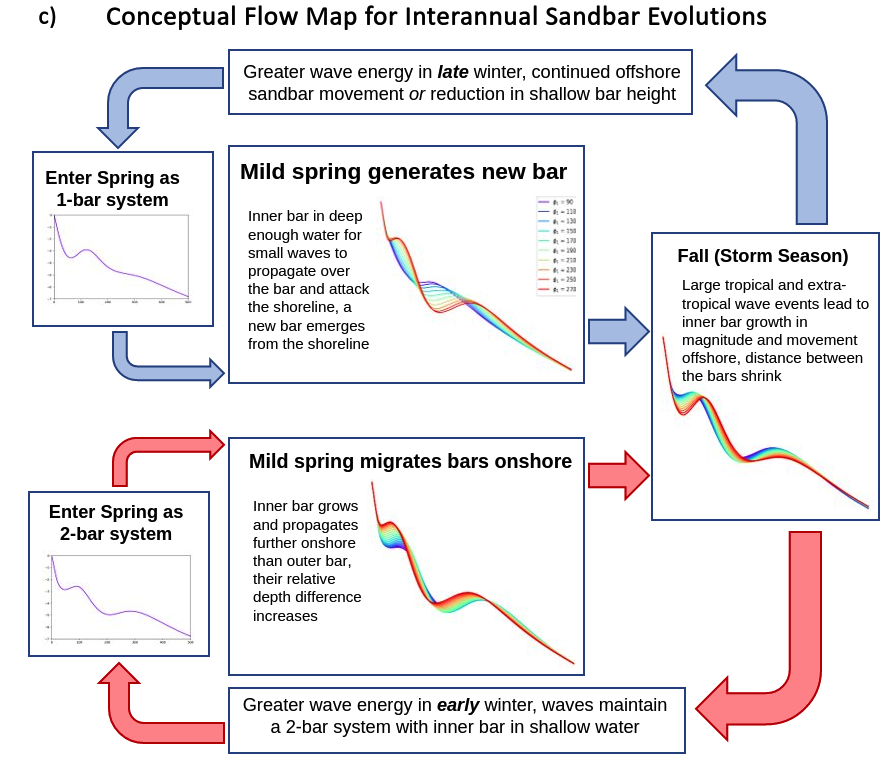
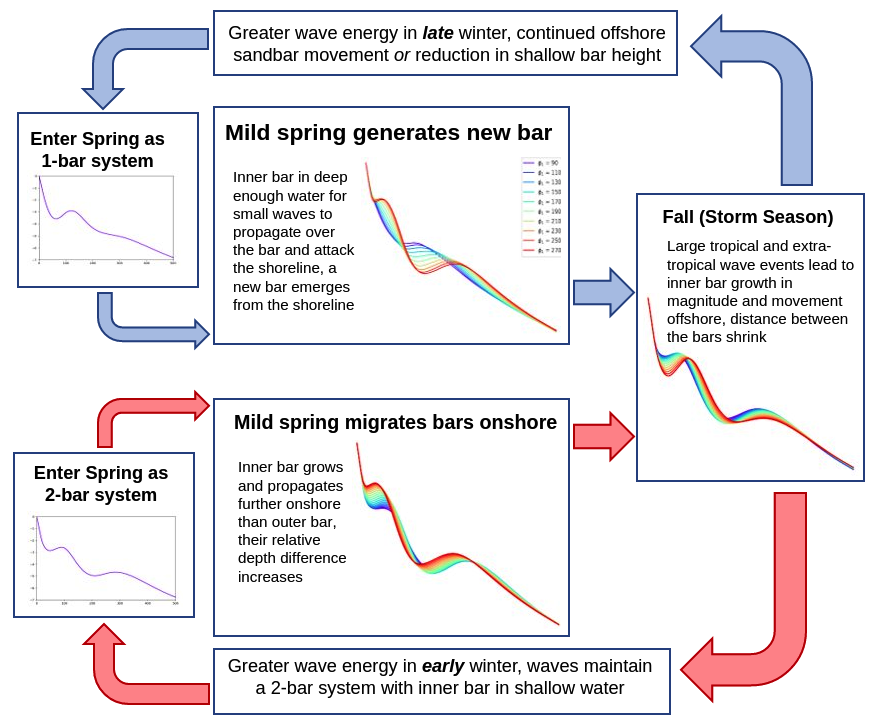
wave forcing added

diff --git a/D1realWorldMigrations.py b/D1realWorldMigrations.py
@@ -353,8 +353,13 @@ mode2Wrap3WA = (mode2Phase3WA + np.pi) % (2 * np.pi) - np.pi
 mode1Mag = moving_average(RS[:,0],n=3)
 mode2Mag = moving_average(RS[:,1],n=3)
 
-fig = plt.figure(figsize=(14,8))
-ax100 = plt.subplot2grid((2,3),(0,0),rowspan=1,colspan=1)
+
+
+
+
+fig = plt.figure(figsize=(10,10))
+
+ax100 = plt.subplot2grid((1,1),(0,0),rowspan=1,colspan=1)
 con1 = ax100.pcolor(meshTheta1,meshTheta2,doublebar,vmin=0,vmax=1,cmap='Greys')
 coloredlines = cm.rainbow(np.linspace(0,1,len(lowWaves)))
 lineSlopes = []
@@ -455,14 +460,8 @@ for ff in range(len(lowWaves)):
         newy = f(newx)
         if indexedTime[0].year < 2005 or indexedTime[0].year > 2008:# and indexedTime[0].year < 2021:
             if np.mean(mags1) < 0.23:
-                #lines1 = ax100.plot(newx,newy,'-',linewidth=2,color='k',label='{}'.format(indexedTime[0].year))
                 print(np.mean(mags1))
                 print(np.mean(mags2))
-
-            # elif np.mean(mags2) < 0.23:
-            #     lines1 = ax100.plot(newx,newy,'-',linewidth=2,color='k',label='{}'.format(indexedTime[0].year))
-            #     print(np.mean(mags1))
-            #     print(np.mean(mags2))
             else:
                 lines1 = ax100.plot(newx, newy, '-', linewidth=2, color=colorOfLine, label='{}'.format(indexedTime[0].year))
                 add_arrow(lines1[0], color='k', size=25)
@@ -470,42 +469,13 @@ for ff in range(len(lowWaves)):
                 lineSlopeTimes.append(indexedTime[0])
                 print(indexedTime[0])
 
-    #
-    # if indexedTime[0].year < 2005 or indexedTime[0].year > 2008:
-    #     if indexedTime[0].year < 2021:
-    #         if np.nanmean(mags) > 0.4:
-    #
-    #             if x1[-1] < 60 and y1[0]>-100:
-    #
-    #                 lines1 = ax100.plot(newx,newy,'-',linewidth=2,color=colorOfLine,label='{}'.format(indexedTime[0].year))
-    #                 lineSlopeTimes.append(indexedTime[0])
-    #                 lineSlopes.append(slope)
-    #                 add_arrow(lines1[0], color='k', size=25)
-    #             elif x1[-1] > 60:
-    #                 if x1[-1] > 200 and y1[-1]>200:
-    #                     lines1 = ax100.plot(newx-360,newy,'-',linewidth=2,color=colorOfLine,label='{}'.format(indexedTime[0].year))
-    #                     add_arrow(lines1[0], color='k', size=25)
-    #                     lineSlopeTimes.append(indexedTime[0])
-    #                     lineSlopes.append(slope)
-    #                 else:
-    #                     if indexedTime[0].year < 2014 and indexedTime[0].year > 1981:
-    #                         if x1[0] < 73 and y1[0] < -65:
-    #                             print('skipping')
-    #                         else:
-    #                             lines1 = ax100.plot(newx,newy,'-',linewidth=2,color=colorOfLine,label='{}'.format(indexedTime[0].year))
-    #                             lineSlopeTimes.append(indexedTime[0])
-    #                             lineSlopes.append(slope)
-    #                         add_arrow(lines1[0], color='k', size=25)
-
 ax100.set_xlim([0, 440])
 ax100.set_ylim([-50, 380])
-ax100.set_xlabel(r'Offshore Propagation $\Longrightarrow$',fontsize=10)
-ax100.set_ylabel(r'Onshore Propagation $\Longrightarrow$',fontsize=10)
-# ax100.set_title('Non-dimensional Fall Velocity < 6')
-ax100.set_title('Migrations during mild waves')
-ax100.text(-0.05, 1.03, 'a.', transform=ax100.transAxes, size=14, weight='bold')
-
+ax100.set_xlabel(r'Offshore Propagation $\Longrightarrow$',fontsize=12)
+ax100.set_ylabel(r'Onshore Propagation $\Longrightarrow$',fontsize=12)
+ax100.set_title('Non-dimensional Fall Velocity < 6')
 # plt.legend()
+plt.show()
 #
 
 
@@ -523,36 +493,51 @@ for hh in range(len(lineSlopeTimes)):
 
     if tempDay > 28:
         tempDay = 28
-    if tempMonth > 4:
+    if tempMonth > 4 and tempMonth < 12:
         allWaves4 = np.where((tC < DT.datetime(tempYear,tempMonth-3,tempDay)) & (tC > DT.datetime(tempYear,tempMonth-4,tempDay)))
         allWaves1 = np.where((tC < DT.datetime(tempYear,tempMonth-2,tempDay)) & (tC > DT.datetime(tempYear,tempMonth-3,tempDay)))
         allWaves2 = np.where((tC < DT.datetime(tempYear,tempMonth-1,tempDay)) & (tC > DT.datetime(tempYear,tempMonth-2,tempDay)))
         allWaves3 = np.where((tC < timeSubset[tempInd[0][0]]) & (tC > DT.datetime(tempYear,tempMonth-1,tempDay)))
+        allWaves5 = np.where((tC > timeSubset[tempInd[0][0]]) & (tC < DT.datetime(tempYear,tempMonth+1,tempDay)))
+    elif tempMonth == 12:
+        allWaves4 = np.where((tC < DT.datetime(tempYear,tempMonth-3,tempDay)) & (tC > DT.datetime(tempYear,tempMonth-4,tempDay)))
+        allWaves1 = np.where((tC < DT.datetime(tempYear,tempMonth-2,tempDay)) & (tC > DT.datetime(tempYear,tempMonth-3,tempDay)))
+        allWaves2 = np.where((tC < DT.datetime(tempYear,tempMonth-1,tempDay)) & (tC > DT.datetime(tempYear,tempMonth-2,tempDay)))
+        allWaves3 = np.where((tC < timeSubset[tempInd[0][0]]) & (tC > DT.datetime(tempYear,tempMonth-1,tempDay)))
+        allWaves5 = np.where((tC > timeSubset[tempInd[0][0]]) & (tC < DT.datetime(tempYear+1,1,tempDay)))
     elif tempMonth == 4:
         allWaves4 = np.where((tC < DT.datetime(tempYear,tempMonth-3,tempDay)) & (tC > DT.datetime(tempYear-1,12,tempDay)))
         allWaves1 = np.where((tC < DT.datetime(tempYear,tempMonth-2,tempDay)) & (tC > DT.datetime(tempYear,tempMonth-3,tempDay)))
         allWaves2 = np.where((tC < DT.datetime(tempYear,tempMonth-1,tempDay)) & (tC > DT.datetime(tempYear,tempMonth-2,tempDay)))
         allWaves3 = np.where((tC < timeSubset[tempInd[0][0]]) & (tC > DT.datetime(tempYear,tempMonth-1,tempDay)))
+        allWaves5 = np.where((tC > timeSubset[tempInd[0][0]]) & (tC < DT.datetime(tempYear,tempMonth+1,tempDay)))
+
     elif tempMonth == 3:
         allWaves4 = np.where((tC < DT.datetime(tempYear-1,12,tempDay)) & (tC > DT.datetime(tempYear-1,11,tempDay)))
         allWaves1 = np.where((tC < DT.datetime(tempYear-1,11,tempDay)) & (tC > DT.datetime(tempYear-1,10,tempDay)))
         allWaves2 = np.where((tC < DT.datetime(tempYear,tempMonth-1,tempDay)) & (tC > DT.datetime(tempYear,tempMonth-2,tempDay)))
         allWaves3 = np.where((tC < timeSubset[tempInd[0][0]]) & (tC > DT.datetime(tempYear,tempMonth-1,tempDay)))
+        allWaves5 = np.where((tC > timeSubset[tempInd[0][0]]) & (tC < DT.datetime(tempYear,tempMonth+1,tempDay)))
+
     elif tempMonth == 2:
         allWaves2 = np.where((tC < DT.datetime(tempYear-1,10,tempDay)) & (tC > DT.datetime(tempYear-1,9,tempDay)))
         allWaves4 = np.where((tC < DT.datetime(tempYear-1,12,tempDay)) & (tC > DT.datetime(tempYear-1,11,tempDay)))
         allWaves1 = np.where((tC < DT.datetime(tempYear-1,11,tempDay)) & (tC > DT.datetime(tempYear-1,10,tempDay)))
         allWaves3 = np.where((tC < timeSubset[tempInd[0][0]]) & (tC > DT.datetime(tempYear,tempMonth-1,tempDay)))
+        allWaves5 = np.where((tC > timeSubset[tempInd[0][0]]) & (tC < DT.datetime(tempYear,tempMonth+1,tempDay)))
+
     elif tempMonth == 1:
         allWaves2 = np.where((tC < DT.datetime(tempYear-1,10,tempDay)) & (tC > DT.datetime(tempYear-1,9,tempDay)))
         allWaves4 = np.where((tC < DT.datetime(tempYear-1,12,tempDay)) & (tC > DT.datetime(tempYear-1,11,tempDay)))
         allWaves1 = np.where((tC < DT.datetime(tempYear-1,11,tempDay)) & (tC > DT.datetime(tempYear-1,10,tempDay)))
         allWaves3 = np.where((tC < timeSubset[tempInd[0][0]]) & (tC > DT.datetime(tempYear-1,12,tempDay)))
+        allWaves5 = np.where((tC > timeSubset[tempInd[0][0]]) & (tC < DT.datetime(tempYear,tempMonth+1,tempDay)))
+
 
     # if tempMonth > 2 and tempMonth < 10:
     #     print(lineSlopeTimes[hh])
     #     print('{}/{}/{}'.format(tempYear, tempMonth, tempDay))
-    threeMonthWE.append([np.nanmean(weC[allWaves4]),np.nanmean(weC[allWaves1]),np.nanmean(weC[allWaves2]),np.nanmean(weC[allWaves3])])
+    threeMonthWE.append([np.nanmean(weC[allWaves4]),np.nanmean(weC[allWaves1]),np.nanmean(weC[allWaves2]),np.nanmean(weC[allWaves3]),np.nanmean(weC[allWaves5])])
     threeMonthLWP.append([np.nanmean(np.abs(lwpC[allWaves4])),np.nanmean(np.abs(lwpC[allWaves1])),np.nanmean(np.abs(lwpC[allWaves2])),np.nanmean(np.abs(lwpC[allWaves3]))])
     threeMonthFV.append([np.nanmean(fV[allWaves4]),np.nanmean(fV[allWaves1]),np.nanmean(fV[allWaves2]),np.nanmean(fV[allWaves3])])
     lineSubset.append(lineSlopes[hh])
@@ -563,8 +548,9 @@ lowSlopes = np.where((np.array(lineSubset) < 1.2))
 highSlopes = np.where((np.array(lineSubset) > 1.2))
 
 
-plotTime = [1,2,3,4]
-ax1 = plt.subplot2grid((2,3),(1,0),rowspan=1,colspan=1)
+plotTime = [1,2,3,4,5]
+plt.figure()
+ax1 = plt.subplot2grid((1,1),(0,0),rowspan=1,colspan=1)
 seasonalMean = np.mean(np.array(threeMonthWE)[highSlopes[0],:],axis=0)
 seasonalStd = np.std(np.array(threeMonthWE)[highSlopes[0],:],axis=0)
 ax1.plot(plotTime,seasonalMean,'o-',label='2 Bars Maintained',color='r')
@@ -575,23 +561,12 @@ seasonalStd2 = np.std(np.array(threeMonthWE)[lowSlopes[0],:],axis=0)
 ax1.plot(plotTime,seasonalMean2,'o-',label='New Bar Created',color='blue')
 ax1.fill_between(plotTime, seasonalMean2 - seasonalStd2, seasonalMean2 + seasonalStd2, color='blue', alpha=0.2)
 
-ax1.set_xticks([plotTime[0],plotTime[1],plotTime[2],plotTime[3]])
-ax1.set_xticklabels(['4-months prior','3-months prior','2-months prior','1-month prior',])
+ax1.set_xticks([plotTime[0],plotTime[1],plotTime[2],plotTime[3],plotTime[4]])
+ax1.set_xticklabels(['4-mon. prior','3-mon. prior','2-mon. prior','1-mon. prior','Start of Arrow'])
 ax1.legend()
-ax1.set_title('Wave energy preceeding arrows in (a)')
-ax1.text(-0.05, 1.03, 'b.', transform=ax1.transAxes, size=14, weight='bold')
-ax1.set_ylabel('Wave Energy ')
+plt.show()
 
-import matplotlib.image as mpimg
-ax2 = plt.subplot2grid((2,3),(0,1),rowspan=2,colspan=2)
-ax2.imshow(mpimg.imread('conceptualFlowchart.png'))
-ax2.axes.get_xaxis().set_visible(False)
-ax2.axes.get_yaxis().set_visible(False)
-ax2.text(-0.05, 1.02, 'c.', transform=ax2.transAxes, size=14, weight='bold')
-ax2.set_title('Conceptual Flow Map for Interannual Sandbar Evolutions',fontsize=18)
-ax2.spines["bottom"].set_linewidth(0)
-ax2.spines["top"].set_linewidth(0)
-ax2.spines["left"].set_linewidth(0)
-ax2.spines["right"].set_linewidth(0)
 
-plt.tight_layout()
+
+
+

diff --git a/README.md b/README.md
@@ -3,11 +3,26 @@
 Place-holder for zenodo doi: 
 [![DOI](https://zenodo.org/badge/381731651.svg)](https://zenodo.org/badge/latestdoi/381731651)
 
+
+### Files
+- [A1loadExtractData.py](./A1loadExtractData.py) Loading, averaging, interpolating transects from a directory of netcdf files containing FRF survey transects.
+- [B1complexEOFs.py](./B1complexEOFs.py) Applying CEOFs to the geomorphology data set.
+- [C1phaseSpace.py](./C1phaseSpace.py) Identifying profile characteristics for all interferences of the dominant two modes of sandbar migration.
+- [D1realWorlMigrations.py](./D1realWorldMigrations.py) Plotting observed sandbar migrations into phase space depending on preceeding month's wave conditions.
+- [F1studyMap.py](./F1studyMap.py) Creating the top figure in this README.
+- [F2ceofOnOff.py](./F2ceofOnOff.py) Creating above figure with two different dominant mode of sandbar migration.
+- [F3phaseDiagram.py](./F3phaseDiagram.py) Creating annotated phase space diagram provided above.
+- [F4waveForcing.py](./F4waveForcing.py) Creating combined figure with historical migrations, associated waves, and conceptual flowchart.
+- [downloadThredds.py](./downloadThredds.py) Local download of CHL Thredds data, with script set for WIS waves.
+- [sandbarUtils.py](./sandbarUtils.py) Functions for picking sandbar crests/troughs.
+
+
 ### Overview
 
 Codes in this repo process topo-bathy surveys from the Field Research Facility to assess sandbar dynamics observed since 1980.
 The intent is to develop a cross-shore perspective on morphology evolution that considers the complete profile evolution (as opposed to 1-dimensional variables such as sandbar cross-shore loction or sandbar depth).
 Complex Empirical Orthogonal Functions (CEOFs) are used to isolate offshore propagrations (dominant mode) and onshore migrations (2nd mode).
+It is demonstrated that sanbars experiencing mild wave conditions can migrate either onshore or offshore depending on the inherited cross-shore profile.
 
 
 
@@ -43,15 +58,6 @@ Constructive interference of the two modes results in a profile reconstruction, 
 
 ![image](https://github.com/anderdyl/frfSandbars/blob/master/figure3.png)
 
-
-
-![image](https://github.com/anderdyl/frfSandbars/blob/master/conceptualFlowchart.png)
-
-### Files
-- [A1loadExtractData.py](./A1loadExtractData.py) Loading, averaging, interpolating transects from a directory of netcdf files containing FRF survey transects.
-- [B1complexEOFs.py](./B1complexEOFs.py) Applying CEOFs to the geomorphology data set.
-- [C1phaseSpace.py](./C1phaseSpace.py) Identifying profile characteristics for all interferences of the dominant two modes of sandbar migration.
-- [F1studyMap.py](./F1studyMap.py) Creating the top figure in this README.
-- [F2ceofOnOff.py](./F2ceofOnOff.py) Creating above figure with two different dominant mode of sandbar migration.
-- [F3phaseDiagram.py](./F3phaseDiagram.py) Creating annotated phase space diagram provided above.
-- [downloadThredds.py](./downloadThredds.py) Local download of CHL Thredds data, with script set for WIS waves.
+The script [D1realWorldMigrations.py](./D1realWorldMigrations.py) plots historical observations into the conceptual phase space, specifically highlighting that similar migration directions are clustered in phase-space during mild conditions, and thus the direction of migration is dependent on the inherited morphology.
+The same script assesses the average wave energy experienced in the months preceeding each migration to demonstrate that offshore migrations during mild conditions preferentially occur when following larger wave energy months.
+![image](https://github.com/anderdyl/frfSandbars/blob/master/figure4.png)
